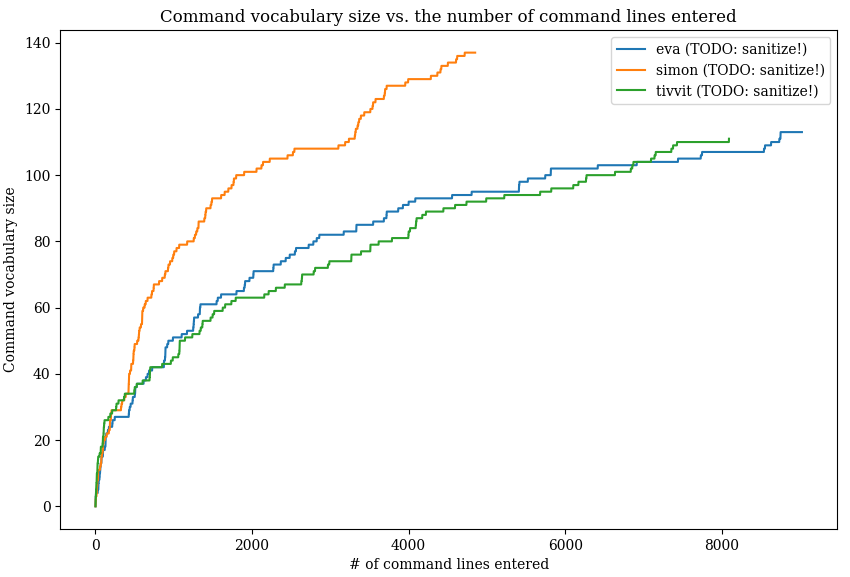
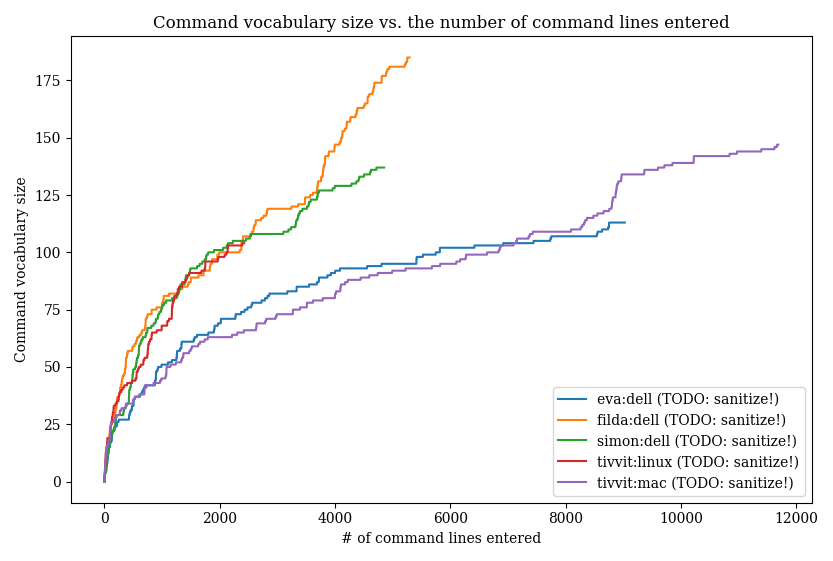
How people use shell history draft

diff --git a/main.tex b/main.tex
@@ -61,10 +61,7 @@
 \authorWithDegrees{Bc. Šimon Let} %author's name with academic degrees
 \author{Šimon Let} %author's name without academic degrees
 \supervisor{Ing. Lukáš Bařinka}
-% my BP thesis: I~would like to thank my supervisor Ing. V{\' i}t List{\' i}k, without his assistance and guidance this thesis would have not be accomplished.
-% \par Then I~would like to thank Ing. Michal Bukovsk{\' y} along with his whole Email.cz team in Seznam.cz for letting me work with them and use their data.
-% \par My thanks also goes to RNDr. Jana Strakov{\' a} at. el for developing Nametag, Named entity recognition solution, I~used in this thesis, and answering my questions.
-% \par Finally I~want to thank my family and friends for their support trough my whole studies.
+
 \acknowledgements{I would like to thank my supervisor Ing. Lukáš Bařinka for his guidance and advice. His insights and expertise shaped this work significantly. 
 
 Next, my thanks goes to my colleagues and friends for their valuable feedback. They helped me spot my personal biases and assumptions rooted in my personal shell workflows. 
@@ -73,7 +70,7 @@ I am grateful for the trust of hundreds of people who downloaded this project. I
 
 I want to thank Installfest conference organizers for the opportunity to give a talk and to demo this project on Installfest.  
 
-Finally, I would like to thank my family for their support during writing this thesis.
+Finally, I would like to thank my family for their support during writing this thesis and trough my whole studies.
 }
 \abstractCS{\todotext{TODO: CZ abstrakt}  \blind[2]}
 \abstractEN{\todotext{TODO: abstract} This thesis is an enhancement for standard shell history. It records shell history with context. It uses the recorded context to make it easier to find relevant history records and to make it possible to search search history using context explicitly.
@@ -135,6 +132,12 @@ At this point we move on to design(ing) ...
 
 
 \chapter{Analysis}
+
+\todo{DEFINE "command line entry"/"history entry" is a full command entered/submitted by the user}
+\todo{DEFINE "stub" is the first word of the command line entry - usually an executable, a shell builtin, or an alias.}
+
+\todo{REPLACE "command line" -$>$ "command line entry"}
+\todo{REPLACE "command" -$>$ "stub"}
 
 \todotext{TODO: describe layout/contents of the chapter}
 
@@ -270,7 +273,7 @@ The \verb|fc| builtin command is supported and the functionality is comparable t
 \todotext{TODO: short conclusion about shells ? }
 
 
-\section{How people use shell and shell history}
+\section{How people use shell}
 
 In this chapter we examine how people use shell and shell history. We consider previous research that studies the properties of how people use command based systems. We also collected a sample of user shell histories and we will be discussing where our data matches the existing findings and where it does not. 
 
@@ -293,7 +296,7 @@ In this section, we focus on commands instead of whole command lines. By command
 
 \todotext{TODO: 80-20 rule is a looser characteristic of Zipf distribution - 20 \% of items account for 80 \% of usage ... alternative 90-10}
 \blind
-
+80-20 rule -$>$ https://en.wikipedia.org/wiki/Pareto\_principle
 
 
 
@@ -372,6 +375,12 @@ lines entered for four individuals. (Greenberg)}
 lines entered for \todotext{N individuals}}
 \end{figure}
 
+\begin{figure}
+  \tmpframe{\includegraphics[width=\linewidth]{figures/greenberg_new/plot_cmd-vocab-size-time.png}}
+  \caption{Command vocabulary size in time of \todotext{N individuals} (empty spaces are for days without any shell history)}
+\end{figure}
+
+
 
 
 \todotext{TODO: initial "steep" period in the plot is caused by the system encountering the commands for the first time. the more stable part is more representative of actual adoption rate of new commands.}
@@ -424,8 +433,6 @@ We just looked at frequencies of commands and command vocabulary of shell users.
 \todotext{TODO: describe the graph by Hanson - all users together, node size indicates frequency of the command, arrows indicate significant dependencies, 50 cmds. }
 
 \todotext{TODO: describe findings by Hanson - significant chains, core/modular cmds vs. cmds with significant dependencies, functional clusters of commands}
-
-
 
 
 
@@ -595,6 +602,12 @@ Total                   & 73.8\%           & 9.6              & 46.4\%      & 91
   \caption{Recurrence distribution as a measure of distance. (Greenberg)}
 \end{figure}
 
+\begin{figure}
+\centering
+  \tmpframe{\includegraphics[width=\linewidth]{figures/greenberg_new/plot_cmdline-recurr-rate.png}} 
+  \caption{Recurrence distribution as a measure of distance.}
+\end{figure}
+
 
 \subsection{Command line entry vocabulary}
 
@@ -634,37 +647,101 @@ entered for a single experienced programmer \todotext{TODO: title}}
 
 
 
-\blind[2]
+\blind[3]
 
 
-\subsection{How people use shell history}
-\todo{practical chapter with concrete examples based on the standard history features}
+\section{How people use shell history}
 
-\todotext{TODO: intro}
+\todo{DESC: practical chapter with concrete examples based on the standard history features}
 
+In the previous sections, we have looked at existing research about shell usage. We compared the findings from literature with a small sample of data we collected ourselves. 
+
+We saw that there is a lot of recurrence and patterns in the way people use shell. These properties of shell usage show us the potential of shell history. When designing any shell history tools we should leverage and respect them.
+
+However, we should not blindly assume that leveraging the recurrence and patterns of shell usage will produce useful history tools. To see the full picture, we need to examine not only how people use shell but how they use shell history.  
+
+For example, studying your shell usage could show us that you often use a specific command line entry. However, there is a significant difference in workflow based on whether you prefer to recall the entry from history or if you prefer to type it out. A shell history mechanism that suggests command line entries that you never retrieve from history provides zero value. 
+
+Consider another example; You download and install a new history tool that is supposed to increase your productivity. It promises to predict what command line entry you are going to use next. It is activated when you press \verb|arrow_up|. There is an issue with such a tool; You are likely used to having access to recent history entries when you press \verb|arrow_up|. You probably have a strong expectation that \verb|arrow_up| gives you previous history entry; Chances are that sometimes you press \verb|arrow_up| and execute the retrieved history entry without even reading it. History tool that breaks this expectation will cause mistakes and ultimately you will be forced to either change your habits or uninstall the tool.  
+
+\todotext{TODO: no usable research on how people use shell facilities (Greenberg has usage from csh with history expansion only)}
+\todotext{TODO: to get an idea of how people use shell history we explored and "initiated/participated" in online discourse}
 \blind 
 
-\todotext{TODO: talk about our online research - my twitter thread, hackernews threads, SO questions, etc.}
-\todotext{TODO: features people want, ask for; opinions, ...}
 
-\blind
+\subsection{Online discourse about shell history}
+
+\todotext{TODO: talk about our online research - my twitter thread, hackernews threads, SO questions, etc.}
+
+\todotext{SO and SE show the standard issues, questions, wanted features}
+\todotext{TW thread shown things people use and features they want}
+
+
+\todotext{TODO: Naturally, people are selective about what they share online this skews the available information. People are not likely to share the basic usage habits they do not even realize they have. BUT they will share their custom configurations and scripts. }
+% We find mentions of issues they run into when using standard history features.
+
+\subsection{Common shell history issues and usage patterns}
+
+\todotext{TODO: In this section, we present our observations and highlight sentiments that people voice online. Our observations include issues people face when using shell history, what people expect from shell history and }
+
+\todotext{TODO: We focus on more general findings. We leave specific tools people use for a later section.}
+
+
+\subsubsection*{Robustness of standard shell history}
+
+The most common issues people ask questions about are related to robustness of the history.
+
+People expect shell history to gracefully handle multiple \textbf{simultaneous sessions}. This is not the case; The user can run into multiple issues depending on what is the default configuration in the package provided by the distribution.
+\todotext{The most common issue is - losing history from sessions because the last session overwrites the history file. Some people expect the history to be shared between sessions and it is nontrivial to set it up (in bash, zsh has an option)}
+\todotext{The most severe issue is a race condition that can cause bash to lose the entire shell history. There is no mechanism that ensures that two shell sessions will not write out shell history at the same time. People have reported losing their whole history because of this issue. When users shutdown their machine with multiple open terminals the chance of the race condition increases because all the shell sessions will be "killed" by the "system" at roughly the same time.}
+
+
+\todotext{Unlimited history - people expect}
+\todotext{unlimited search}
+
+
+\todotext{Full transcript - people expect}
+
+
+\subsubsection*{Basic/Standard shell history features/usage}
+
+\subsubsection*{Contextual history}
+
+\subsubsection*{Control over what gets into history}
+
+\subsubsection*{Shell history across multiple devices / Synchronizing history between devices}
+
+\subsubsection*{Smart shell history features}
+
+
 
 \todotext{TODO: introduce personas - HERE?!}
-\todotext{TODO: describe use cases - HERE?! - yes because we want to compare the standard history features to our solution in the end using these use cases }
 
-\todotext{USECASE: use case where we find something in history and want to find a similar command immediately: 1 use resh cli to find the first command, 2 execute, 3 arrow\_up, 4 ctrlR gives you similar results to what you found before}
+\todotext{TODO: Experienced user}
 
-\todotext{USECASE: come back to a project and continue previous work on it}
+\todotext{TODO: Novice shell user}
 
-\todotext{USECASE: fix a typo in a previous command}
+
+
+\todotext{TODO: describe "use cases" - HERE?! - yes because we want to compare the standard history features to our solution in the end using these use cases }
+
+\todotext{USECASE: fix a typo in a previous command - press arrow up, }
 
 \todotext{USECASE: use: sudo !! to run a previous command with sudo}
+
+\todotext{USECASE: recall a recent command - press arrow up 5-6 (3-8) times; type prefix + press arrow up 2-3 times NOTE: recent in time vs. recent in command sequence}
+
+\todotext{USECASE: come back to a project and continue previous work on it}
 
 \todotext{USECASE: find a long (w/ many arguments/options) curl request to github api}
 
 \todotext{USECASE: run a recent git command}
 
 \todotext{USECASE: find a command using datetime, command(first word) }
+
+\todotext{USECASE: use case where we find something in history and want to find a similar command immediately: 1 use resh cli to find the first command, 2 execute, 3 arrow\_up, 4 ctrlR gives you similar results to what you found before}
+
+\todo{TODO: Provide a concrete example for all of the use cases !}
 
 \blind[4]
 
@@ -679,21 +756,64 @@ entered for a single experienced programmer \todotext{TODO: title}}
 \todotext{TODO: shell history configurations options}
 
 
+\subsection{how much do people configure and customize \redtext{TODO: better title?}} 
+\todotext{TODO: Some people enjoy actively tweaking and customizing their setups and we look at the configurations they are sharing to explore possible features and options. - the lesson here is to keep things extensible and hackable.}
 
-\subsection{Existing history tools \todotext{TODO: split into more subsections}}
+\todotext{TODO: Large group of people does not want to spend time configuring and customizing their shell and expect it to just work.}
+\todotext{TODO: There is one major reason and one minor reason. The major reason is that to customize and configure you need to either pause whatever you are doing or dedicate some extra time for it. This seems obvious but the fact that customization is extra work will deter many people from configuring their shells. }
+\todotext{TODO: The lesson here is that the default configuration should provide good out of the box experience for the average user. }
+
+\todotext{TODO: Another reason people avoid customization is when they often ssh to many different machines. The issue is that they get used to the custom the local environment and then they miss the customizations on different machines they visit. Depending on how much time they spend on other machines, it might be more convenient to just use the standard defaults everywhere.}
+
+\todotext{TODO: This kind of issue is tough one to deal with; People may be hesitant to even use new history tools because of this issue. We should be aware of this issue and consider how could shell history work across multiple devices.}
 
 \todotext{TODO: common configuration options and what problems are they solving}
 
+\todotext{-$>$ issues caused by running simultaneous sessions - SO full of questions, semi tricky config, PROMPT-COMMAND, histappend option }
+
+\todotext{TODO: per directory history}
+
+\todotext{TODO: per date + session history}
+
+\todotext{TODO: more configurations ...}
+
 \todotext{TODO: configuration management projects e.g.: oh-my-zsh}
 
-\todotext{TODO: }
+\todotext{TODO: many people avoid custom configuration because they move between many devices (ssh into servers)}
+
+\subsection{Existing history tools \todotext{TODO: split into more subsections}}
+
+\todotext{TODO: fuzzy search - fzf}
+
+\todotext{TODO: hstr - addresses the issue of Ctrl-R that only shows one result}
+
+\begin{figure}
+  \tmpframe{\includegraphics[width=\linewidth]{figures/misc/hstr-v2-30.png}}
+  \caption{Hstr screenshot \todotext{TODO: title}}
+\end{figure}
+
+\todotext{TODO: bashhub - contextual cloud shell history}
+
+\todotext{TODO: mcfly - contextual NN powered history search}
+
+\todotext{TODO: advanced-shell-history - contextual history with smart querying - too buggy to be useful}
+
+
+\todotext{TODO: Other less notable shell history tools - underdeveloped, non-interactive, ...}
+
 
 \subsection{History features of Read-eval-print loops}
 
+\todotext{TODO: Python - arrow down}
+
 \subsection{History features of Friendly interactive shell}
 
-\todo{more subsections ...}
-\blind[1]
+\todotext{TODO: autosuggestions}
+
+\todotext{TODO: contextual autosuggestions}
+
+\todotext{TODO: missing reverse search}
+
 
 \blind[4]
 
@@ -920,6 +1040,7 @@ entered for a single experienced programmer \todotext{TODO: title}}
 
 \section{Use cases}
 
+\todotext{TODO: we rolled out the prefix search as a default and we received zero negative feedback. Study of usage of history utilities does indicate that prefix search does not interfere with normal arrow up workflow. We asked users about the feature and some of them were not aware of it.}
 
 
 \begin{conclusion}
